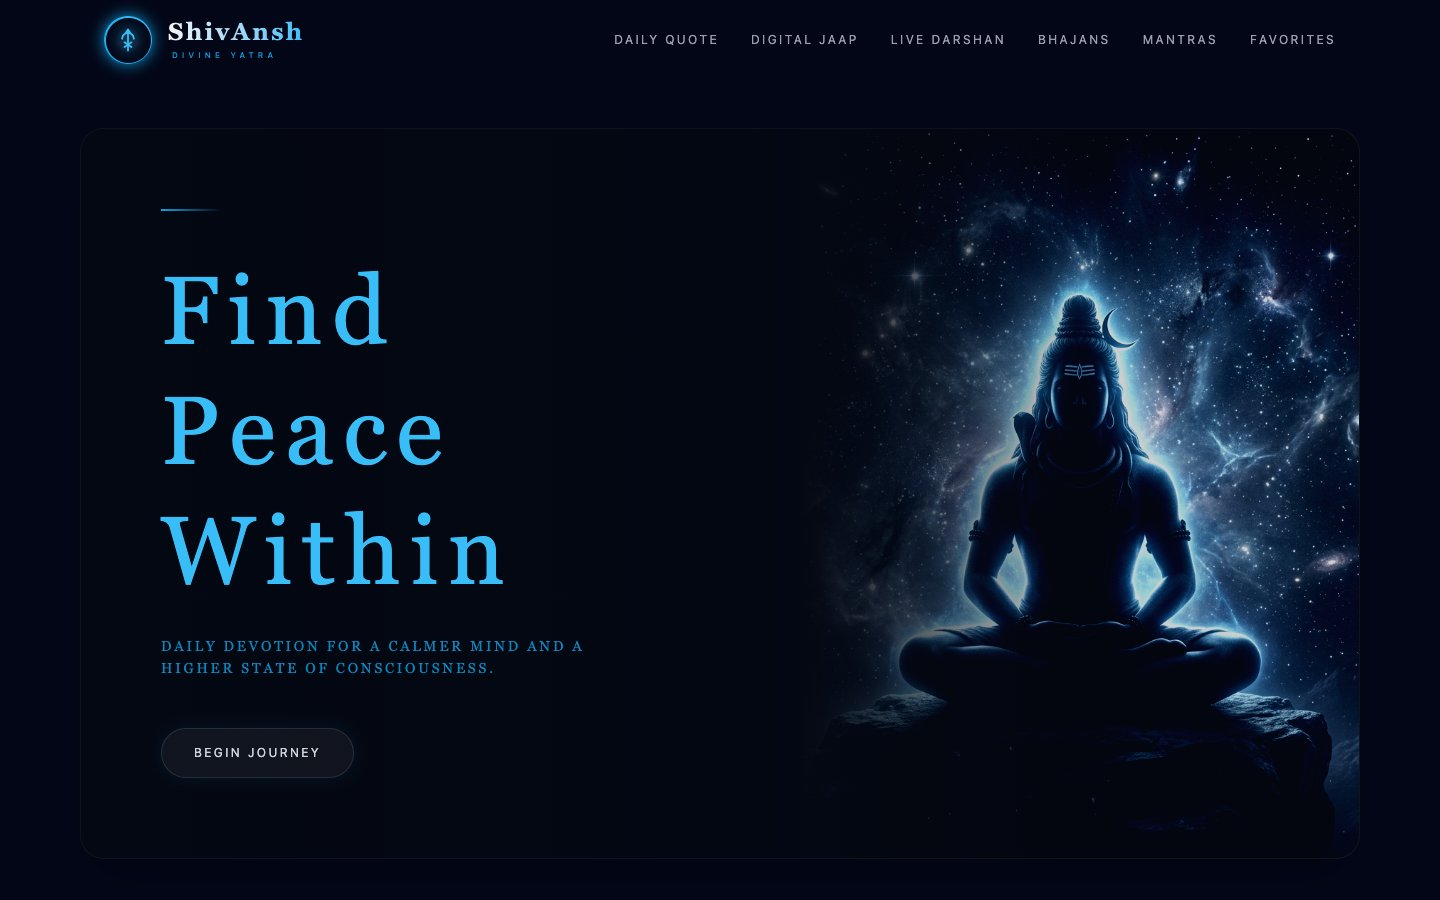
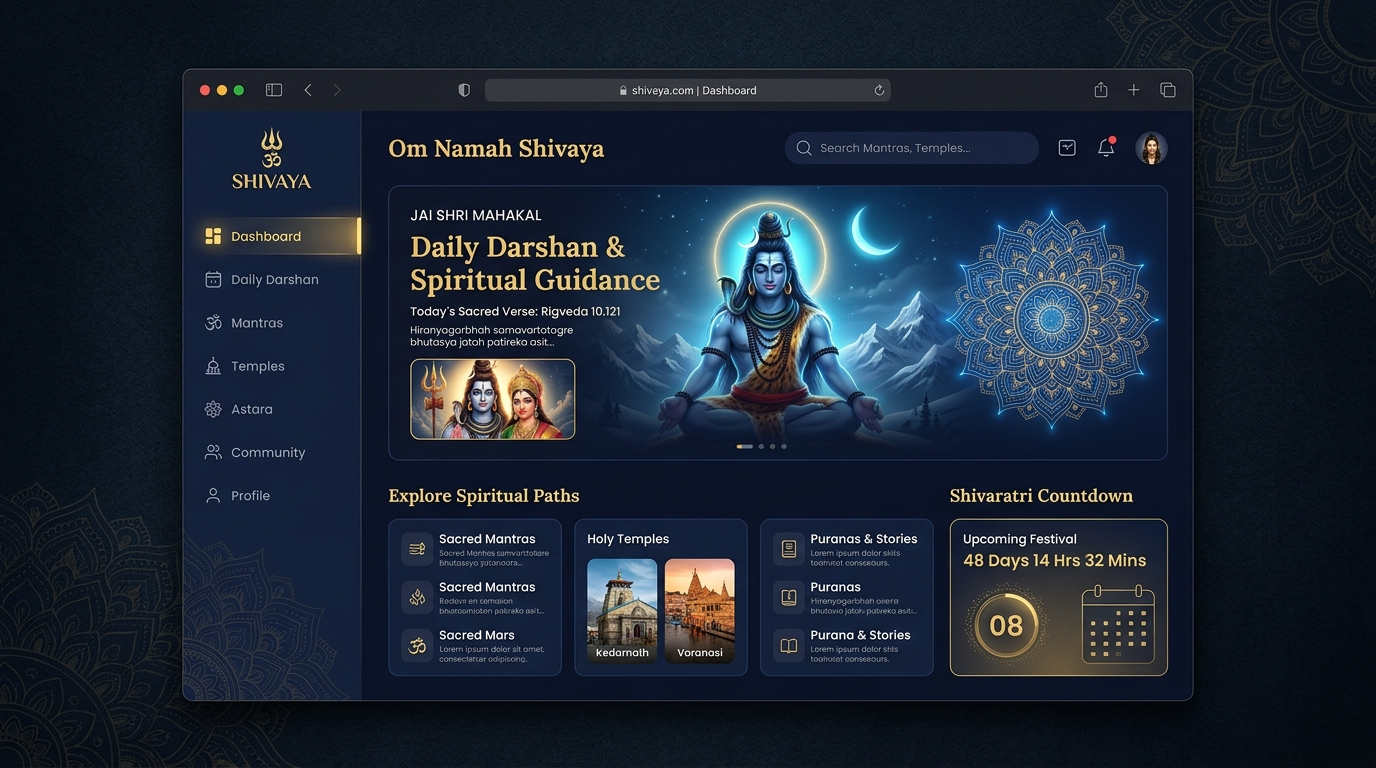
Update Flavour Fusion and AGX Media with custom screenshots

diff --git a/src/components/projects/ProjectsSection.tsx b/src/components/projects/ProjectsSection.tsx
@@ -23,7 +23,7 @@ const PROJECTS: ProjectData[] = [
     description: "A modern food-focused web experience designed around discovering food, browsing products and creating a smooth digital ordering experience.",
     technologies: ["React", "Next.js", "JavaScript", "Tailwind CSS"],
     liveUrl: "https://flavourfusionwithus.thelogoless.com/",
-    imageSrc: "/projects/flavour-fusion.jpg",
+    imageSrc: "/projects/flavour-fusion.png",
   },
   {
     id: "agx-media",
@@ -33,7 +33,7 @@ const PROJECTS: ProjectData[] = [
     description: "A creative agency website designed to present digital marketing, social media and video editing services through a modern visual experience.",
     technologies: ["React", "Next.js", "Tailwind CSS"], // Defaulting to this until provided
     liveUrl: "LINK TO BE PROVIDED",
-    imageSrc: "/projects/agx-media.jpg", // We'll need a placeholder for this one
+    imageSrc: "/projects/agx-media.png",
   },
   {
     id: "shivansh",
